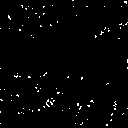
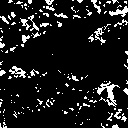
fixed

diff --git a/Question_51_60/answers/answer_52.py b/Question_51_60/answers/answer_52.py
@@ -43,7 +43,7 @@ Erode_time = 3
 mor = out.copy()
 
 for i in range(Erode_time):
-    tmp = np.pad(out, (1, 1), 'edge')
+    tmp = np.pad(mor, (1, 1), 'edge')
     for y in range(1, H+1):
         for x in range(1, W+1):
             if np.sum(MF * tmp[y-1:y+2, x-1:x+2]) < 255*4:
